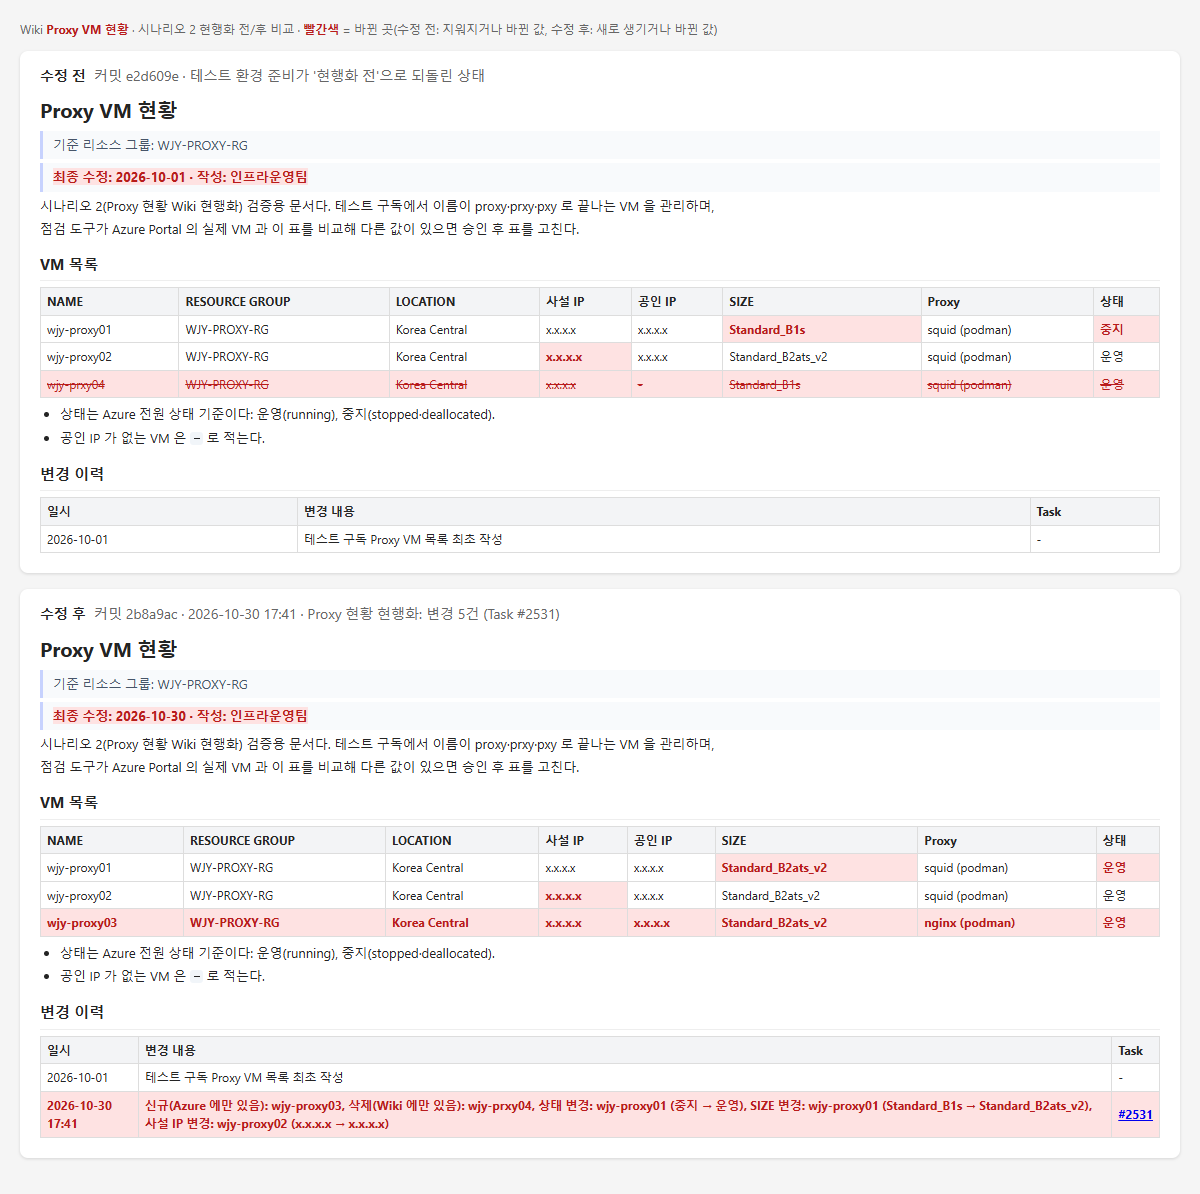
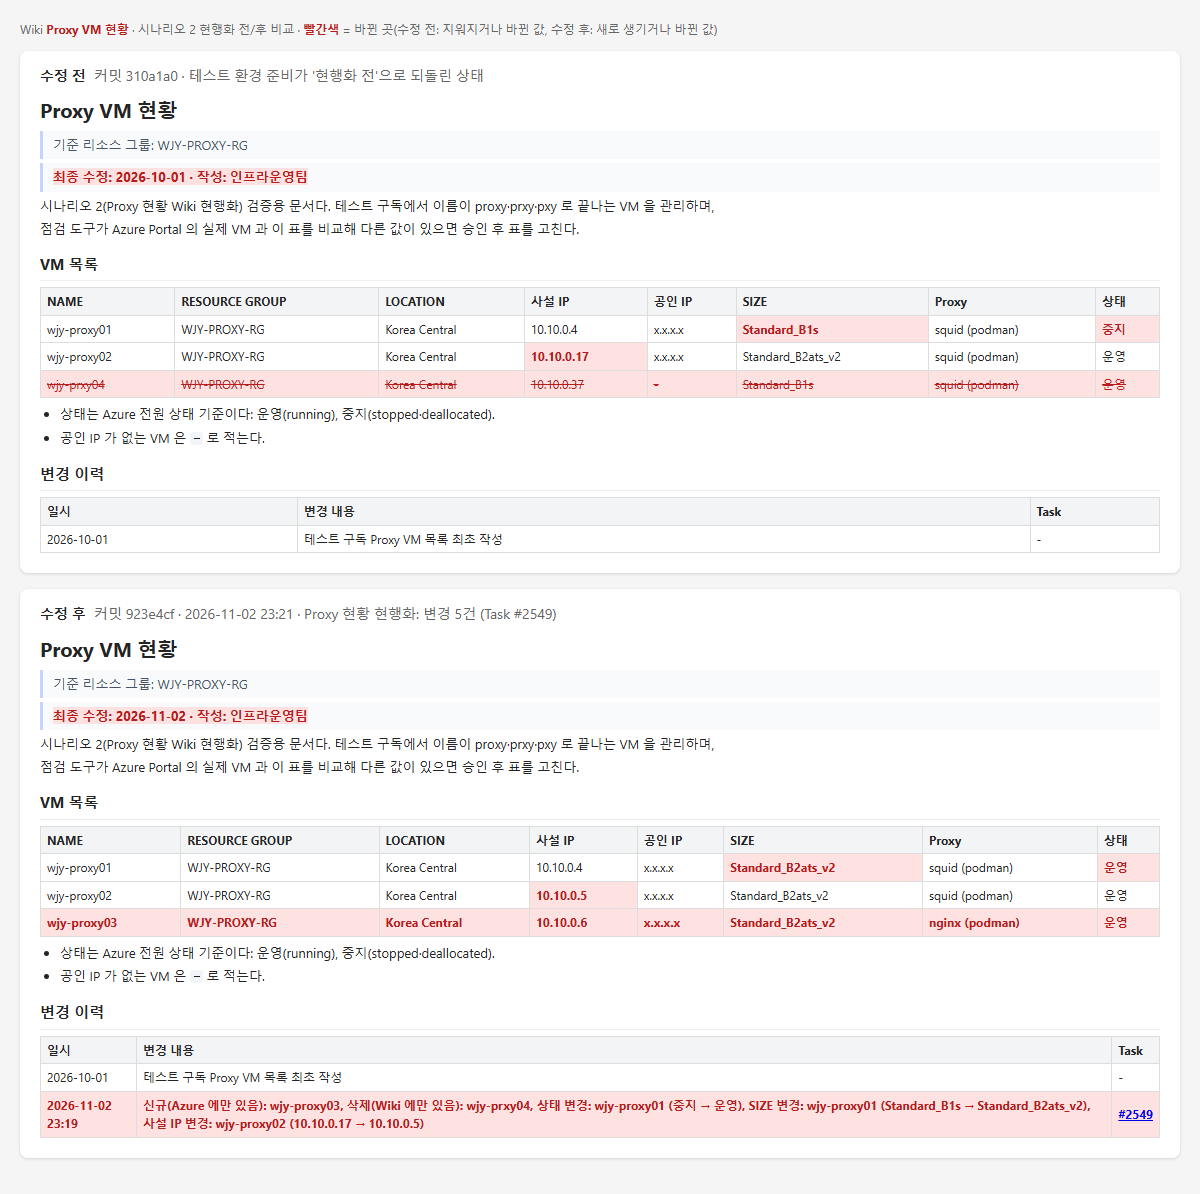
README 시나리오 2: 실행 전 Azure Portal VM 목록과 Wiki 차이 화면 추가, Wiki 전/후 비교에 사설 IP 표시

diff --git a/README.md b/README.md
@@ -182,7 +182,21 @@ flowchart TD
 
 **실행 화면** (2026-10-30 17:41 실제 실행, 설명할 곳은 빨간 테두리)
 
-**① 허브에서 실행**
+**① 실행 전: Wiki와 실제 Azure가 다름** (2026-11-03 촬영)
+
+- Azure Portal **Virtual machines** 목록입니다. 빨간 테두리가 Wiki 현황 문서(⑦의 수정 전)와 다른 곳입니다.
+- Portal 기본 목록에 없는 사설 IP 차이는 ⑦에서 봅니다.
+
+| VM | Wiki (수정 전) | Azure 실제 |
+|---|---|---|
+| wjy-proxy03 | 없음 | 있음 (Running) |
+| wjy-prxy04 | 있음 | 없음 |
+| wjy-proxy01 | 중지 · Standard_B1s | Running · Standard_B2ats_v2 |
+| wjy-proxy02 | 사설 IP 10.10.0.17 | 사설 IP 10.10.0.5 |
+
+![시나리오 2 - Azure Portal VM 목록(Wiki와 다른 곳)](docs/images/azure-scenario2-vms.png)
+
+**② 허브에서 실행**
 
 - 카드 아래에 비교 대상 Wiki 문서와 Azure VM 목록 링크가 있습니다.
 - 아래 로그는 이 실행의 시작 부분입니다. 줄마다 의미는 다음과 같습니다.
@@ -196,37 +210,38 @@ flowchart TD
 
 ![시나리오 2 - 허브 시나리오 실행 탭과 실제 실행 로그](docs/images/hub-scenarios.png)
 
-**② Teams 승인 요청**
+**③ Teams 승인 요청**
 
 AI 요약과 규칙으로 찾은 변경 5건, Yes·No·자세히 보기 버튼이 있습니다.
 
 ![시나리오 2 - Teams 승인 요청 카드](docs/images/teams-scenario2-approval.png)
 
-**③ Yes 후 결과 알림**
+**④ Yes 후 결과 알림**
 
 Task 생성 → Wiki 갱신 → Task 완료를 마치고 결과 카드가 옵니다.
 
 ![시나리오 2 - Teams 현행화 완료 카드](docs/images/teams-scenario2-result.png)
 
-**④ Azure DevOps PBI**
+**⑤ Azure DevOps PBI**
 
 그 달 PBI 아래에 실행할 때마다 Task가 하나씩 붙습니다.
 
 ![시나리오 2 - PBI와 하위 Task](docs/images/devops-scenario2-pbi.png)
 
-**⑤ Azure DevOps Task**
+**⑥ Azure DevOps Task**
 
 변경 5건, 문서 링크, AI 요약이 들어가고 Wiki를 고친 뒤 Done이 됩니다.
 
 ![시나리오 2 - Task 상세](docs/images/devops-scenario2-task.png)
 
-**⑥ Wiki 문서 수정 전/후** (빨간색 = 바뀐 곳)
+**⑦ Wiki 문서 수정 전/후** (2026-11-02 23:21 실행, 빨간색 = 바뀐 곳)
 
 - 바뀐 값(SIZE·상태·사설 IP), 지워진 VM(취소선), 새 VM, 변경 이력 한 줄이 표시됩니다.
+- 수정 후 표는 ①의 Azure 화면과 같아집니다. 사설 IP는 그대로 보이고 공인 IP만 가렸습니다.
 
 ![시나리오 2 - Wiki 현황 문서 수정 전/후](docs/images/wiki-scenario2-diff.png)
 
-**⑦ 로컬 승인 화면과 처리 결과**
+**⑧ 로컬 승인 화면과 처리 결과**
 
 - Teams 카드의 "자세히 보기"를 누르면 열리는 화면입니다.
 - 카드에서 바로 Yes를 누르면 "받았습니다"만 뜨고, 결과는 Teams 카드로 옵니다.
